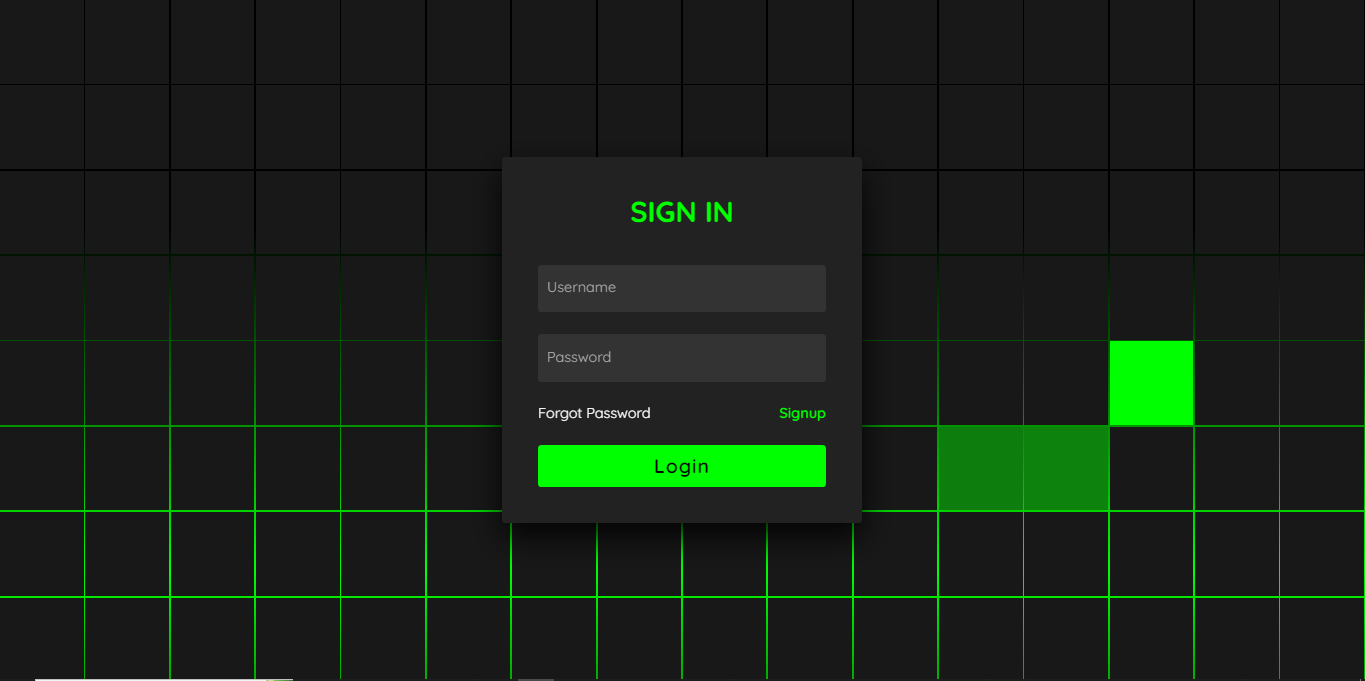
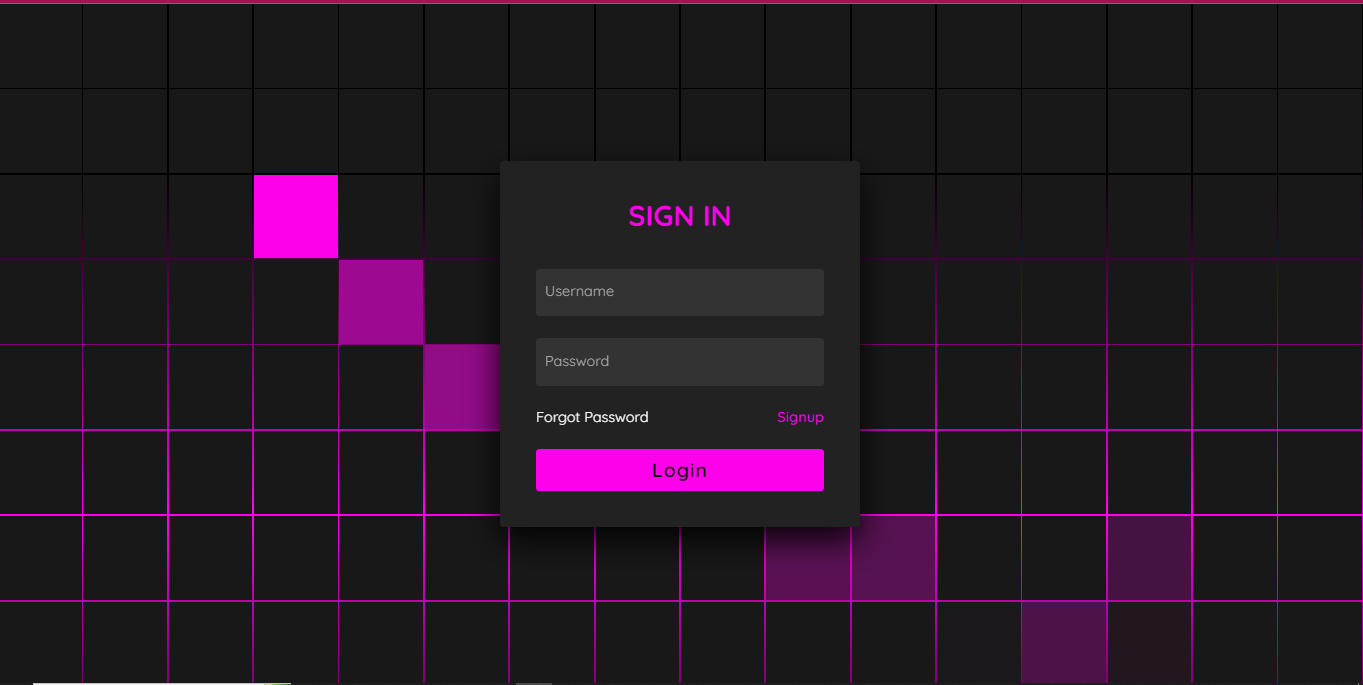
atualização da imagem e css

diff --git a/style.css b/style.css
@@ -37,7 +37,7 @@ section::before {
     position: absolute;
     width: 100%;
     height: 100%;
-    background: linear-gradient(#000, #0f0, #000);
+    background: linear-gradient(#000, #ff00ea, #000);
     animation: animate 3s linear infinite;
 }
 
@@ -63,7 +63,7 @@ section span {
 }
 
 section span:hover {
-    background: #0f0;
+    background: #ff00ea;
     transition: 0s;
 }
 
@@ -93,7 +93,7 @@ section span:hover {
 
 .signin .content h2 {
     font-size: 2em;
-    color: #0f0;
+    color: #ff00ea;
     text-transform: uppercase;
 }
 
@@ -152,13 +152,13 @@ section span:hover {
 }
 
 .signin .content .form .links a:nth-child(2) {
-    color: #0f0;
+    color: #ff00ea;
     font-weight: 600;
 }
 
 .signin .content .form .inputBox input[type="submit"] {
     padding: 10px;
-    background: #0f0;
+    background: #ff00ea;
     color: #000;
     font-weight: 600;
     font-size: 1.35em;
